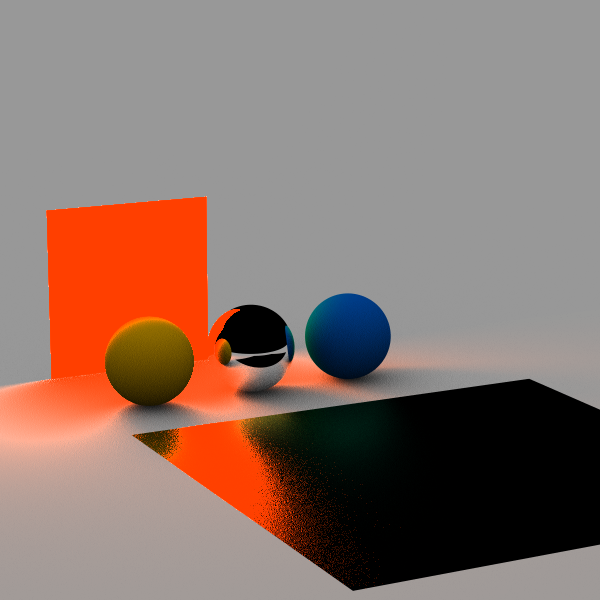
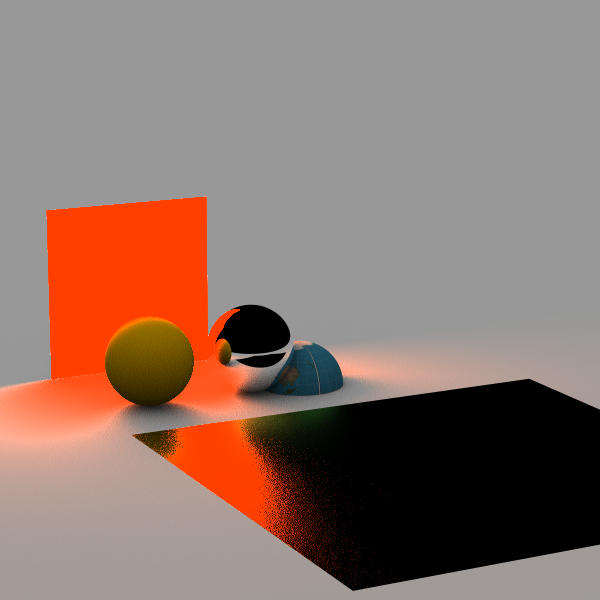
Functional ImageTexture and rendering with SphericalMap

diff --git a/src/World/World.cpp b/src/World/World.cpp
@@ -62,7 +62,9 @@ using namespace std;
 #include "GlossyReflector.h"
 
 #include "ConstantColor.h"
+#include "ImageTexture.h"
 #include "SV_Matte.h"
+#include "SphericalMap.h"
 
 #include "Transparent.h"
 
@@ -229,10 +231,13 @@ void World::build(){
 	SV_Matte* matte_ptr0 = new SV_Matte;
 	matte_ptr0->set_ka(0.15);
 	matte_ptr0->set_kd(0.85);
-	ConstantColor* constantColor = new ConstantColor(RGBColor(0.0, 0.4, 0.9));
-	matte_ptr0->set_cd(constantColor); // blue
+	ConstantColor* constantColor = new ConstantColor(RGBColor(0.7, 0.2, 0.0));
+	ImageTexture* imageTexture = new ImageTexture("./src/world_equirectangular.jpg");
+	SphericalMap* spherical_map_ptr = new SphericalMap();
+	imageTexture->set_mapping(spherical_map_ptr);
+	matte_ptr0->set_cd(imageTexture);
 
-	Sphere* sphere_ptr3 = new Sphere (Point3D(1.25, 1, 0), 1);
+	Sphere* sphere_ptr3 = new Sphere (Point3D(0, 0, 0), 1);
 	sphere_ptr3->set_material(matte_ptr0);
 	add_object(sphere_ptr3);
 

diff --git a/src/Textures/ImageTexture.cpp b/src/Textures/ImageTexture.cpp
@@ -5,6 +5,7 @@
 
 // This file contains the definition of the class ImageTexture
 #include <Magick++.h>
+#include <iostream>
 #include "ImageTexture.h"
 
 using namespace Magick;
@@ -35,8 +36,9 @@ ImageTexture* ImageTexture::clone() const
 RGBColor ImageTexture::get_color(const ShadeRec& sr) const {
     int row, column;
 
-    if (mapping_ptr)
-        mapping_ptr->get_texel_coordinates(sr.local_hit_point, hres, vres, row, column);
+    if (mapping_ptr){
+        mapping_ptr->get_texel_coordinates(sr.local_hit_point, (int) image_ptr->columns(), (int) image_ptr->rows(), row, column);
+    }
     else {
         row = (int)(sr.v * (image_ptr->rows() - 1));
         column = (int)(sr.u * (image_ptr->columns() - 1));

diff --git a/src/Mappings/SphericalMap.cpp b/src/Mappings/SphericalMap.cpp
@@ -5,6 +5,7 @@
 
 // This file contains the definition of the class SphericalMap
 #include <math.h>
+#include <iostream>
 #include "Constants.h"
 #include "SphericalMap.h"
 
@@ -30,8 +31,8 @@ SphericalMap* SphericalMap::clone() const {
 void SphericalMap::get_texel_coordinates(const Point3D& local_hit_point,
     const int hres, const int vres, int& row, int& column) const {
     // first, compute theta and phi
-
-    float theta = acos(local_hit_point.y);
+    float len = local_hit_point.distance(Point3D(0)); // TODO: revisit why/if this is needed
+    float theta = acos(local_hit_point.y / len);
     float phi = atan2(local_hit_point.x, local_hit_point.z);
     if (phi < 0.0)
         phi += TWO_PI;

diff --git a/include/Textures/ImageTexture.h b/include/Textures/ImageTexture.h
@@ -26,15 +26,13 @@ class ImageTexture: public Texture {
         virtual RGBColor get_color(const ShadeRec& sr) const;
 
     private:
-		int hres;                 // horizontal image resolution
-		int vres;                 // vertical image resolution
 		Magick::Image* image_ptr;         // the image
 		Mapping* mapping_ptr;     // mapping technique used, if any
 };
 
 inline void ImageTexture::set_mapping(Mapping* mapping){
 	if(mapping_ptr){
-		delete image_ptr;
+		delete mapping_ptr;
 	}
 	mapping_ptr = mapping;
 }
